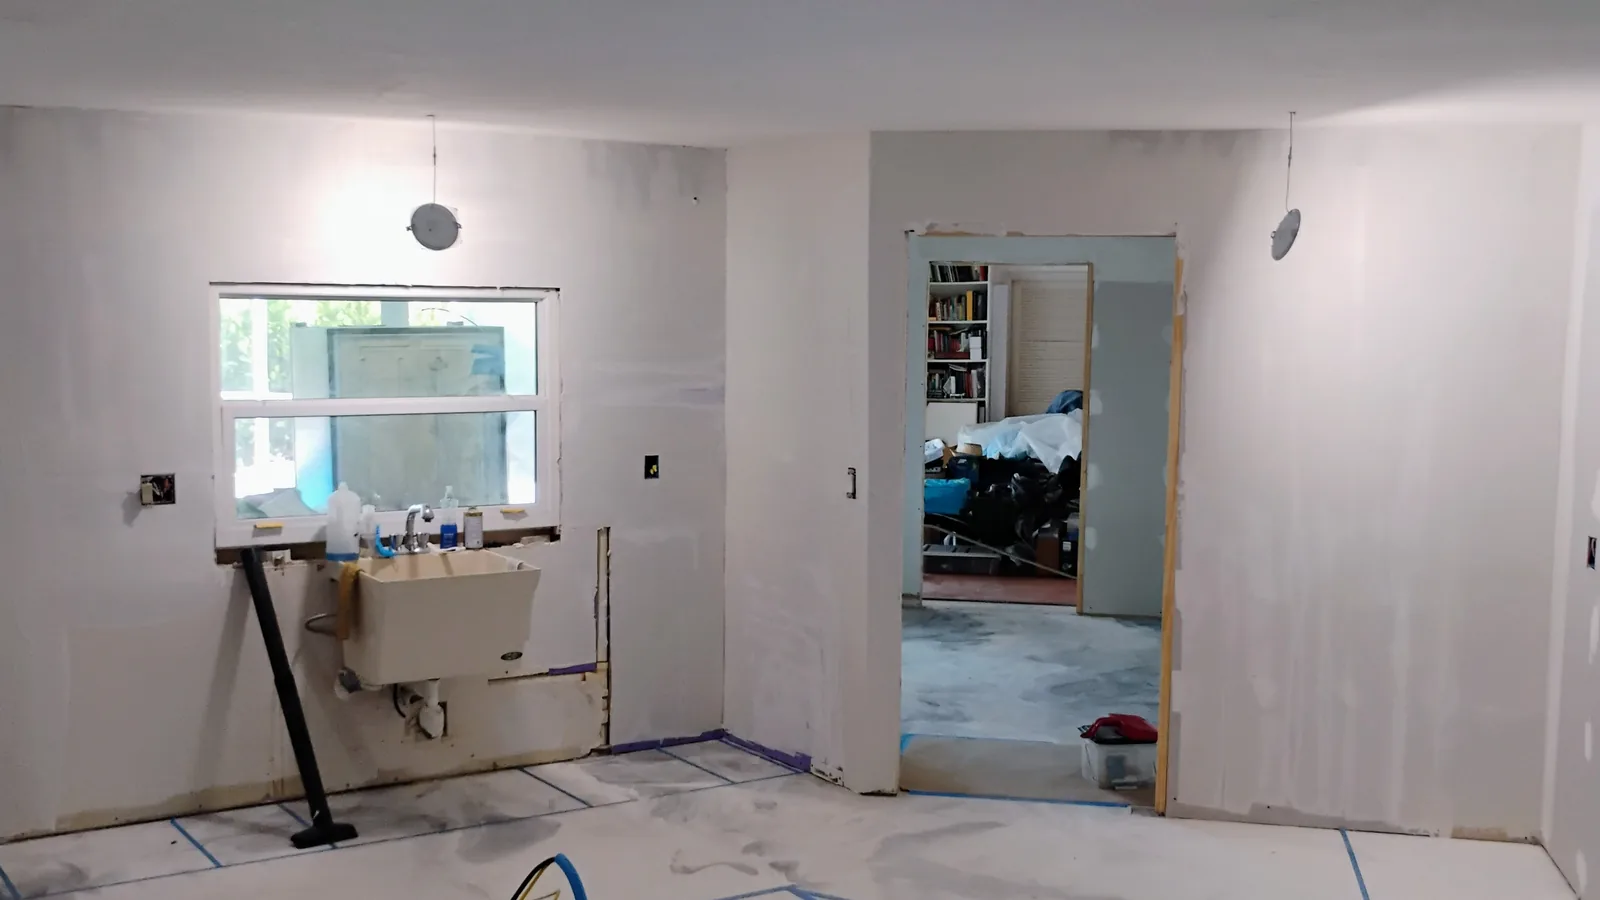
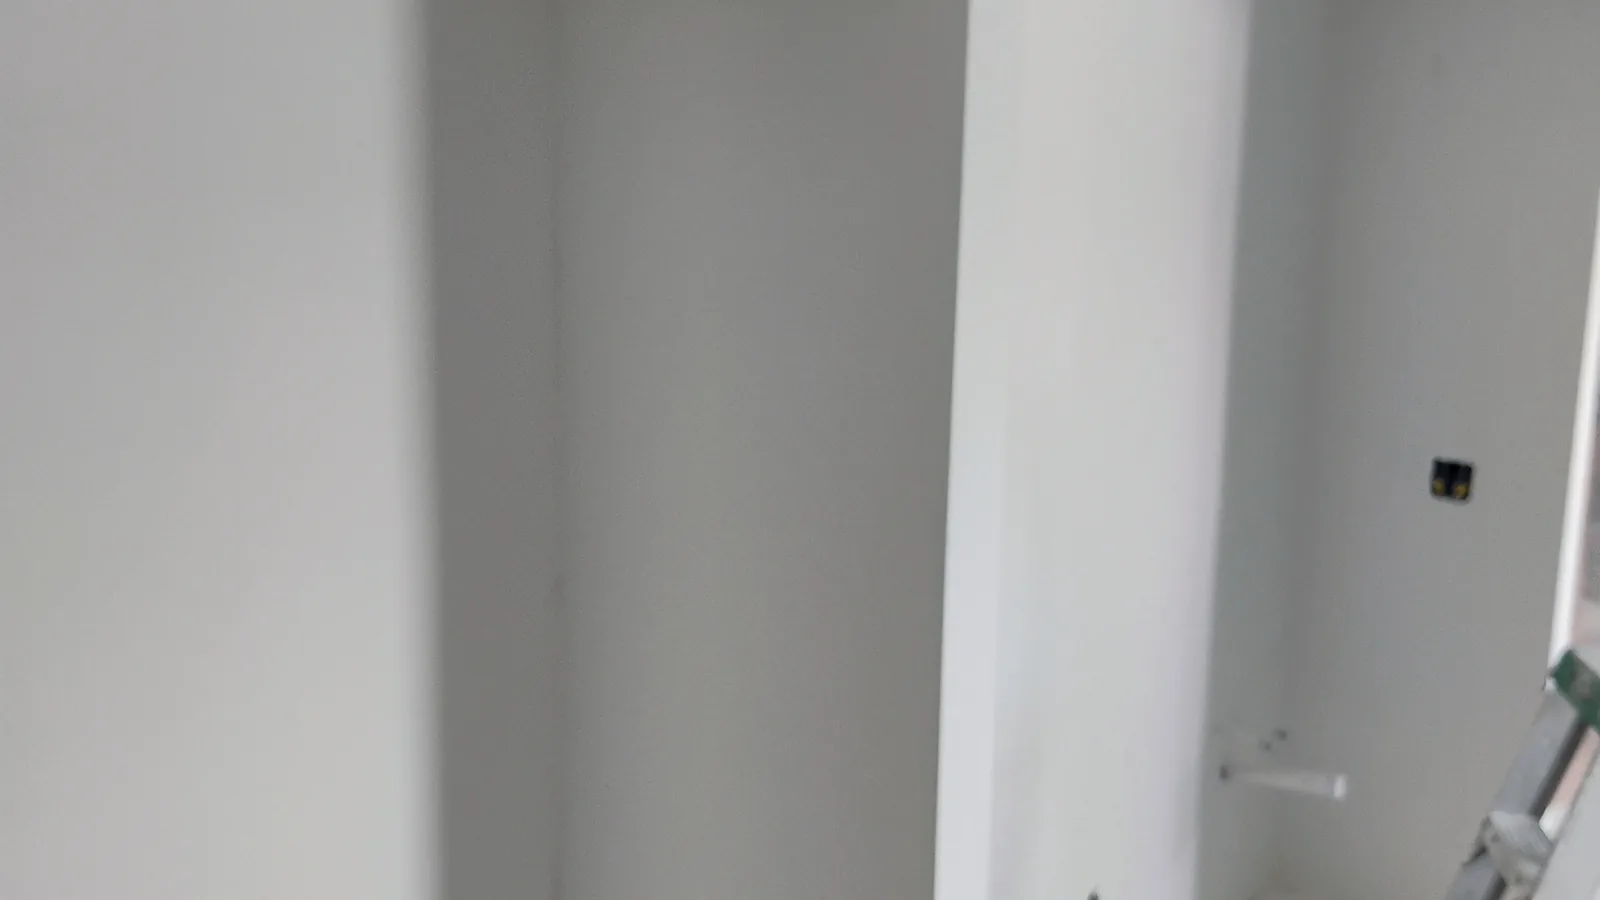
polish(hero): pull copy hard-left, widen photo to 55%, sharper photo (d6 q90)

diff --git a/drywall-repair-painting-sarasota.html b/drywall-repair-painting-sarasota.html
@@ -50,9 +50,9 @@
     .bc a{color:var(--gray-600);text-decoration:none;transition:color .3s}.bc a:hover{color:var(--gold)}
     .bc .sep{color:rgba(198,167,104,0.4)}.bc .cur{color:var(--gold-light)}
     .hero{position:relative;min-height:78vh;display:flex;align-items:center;background:var(--black);overflow:hidden;padding-top:10px}
-    .hero-img{position:absolute;top:0;right:0;width:52%;height:100%;object-fit:cover;opacity:1;z-index:0}
-    .hero::before{content:'';position:absolute;inset:0;z-index:1;background:linear-gradient(90deg,#1C1C1C 0%,#1C1C1C 45%,rgba(28,28,28,0.70) 57%,rgba(28,28,28,0) 82%),radial-gradient(ellipse at 14% 42%,rgba(198,167,104,0.10) 0%,transparent 55%)}
-    .hero-content{position:relative;z-index:2;max-width:560px;padding:80px 0;margin-left:0}.hero-deco{display:none!important}.hero .container{max-width:100%;padding-left:clamp(28px,7vw,150px);padding-right:0}
+    .hero-img{position:absolute;top:0;right:0;width:55%;height:100%;object-fit:cover;opacity:1;z-index:0}
+    .hero::before{content:'';position:absolute;inset:0;z-index:1;background:linear-gradient(90deg,#1C1C1C 0%,#1C1C1C 40%,rgba(28,28,28,0.66) 53%,rgba(28,28,28,0) 76%),radial-gradient(ellipse at 12% 40%,rgba(198,167,104,0.12) 0%,transparent 55%)}
+    .hero-content{position:relative;z-index:2;max-width:560px;padding:80px 0;margin-left:clamp(24px,6vw,120px)}.hero-deco{display:none!important}.hero .container{max-width:none;margin:0;padding:0}
     .hero-badge{display:inline-flex;align-items:center;gap:8px;background:var(--gold-dim);border:1px solid rgba(198,167,104,0.3);border-radius:100px;padding:6px 16px;margin-bottom:24px}
     .hero-badge span{font-size:12px;color:var(--gold);letter-spacing:1.5px;font-weight:500}
     .hero-badge .dot{width:6px;height:6px;border-radius:50%;background:var(--gold);animation:pulse 2s infinite}
@@ -162,7 +162,7 @@
     .reveal.visible{opacity:1;transform:translateY(0)}
     .reveal-delay-1{transition-delay:.1s}.reveal-delay-2{transition-delay:.2s}.reveal-delay-3{transition-delay:.3s}
     @keyframes pulse{0%,100%{opacity:1}50%{opacity:.4}}
-    @media(max-width:900px){.hero{display:block;min-height:auto;padding-top:64px}.hero-img{position:relative;width:100%;height:240px}.hero::before{background:linear-gradient(180deg,rgba(28,28,28,0) 45%,#1C1C1C 96%)}.hero-content{max-width:100%;padding:26px 0 44px}.hero .container{padding-left:24px;padding-right:24px}}
+    @media(max-width:900px){.hero{display:block;min-height:auto;padding-top:64px}.hero-img{position:relative;width:100%;height:240px}.hero::before{background:linear-gradient(180deg,rgba(28,28,28,0) 45%,#1C1C1C 96%)}.hero-content{max-width:100%;padding:26px 0 44px;margin-left:0}.hero .container{padding:0 24px}}
     @media(max-width:768px){.hero-content{padding:26px 0 44px}.hero-deco{display:none}.section{padding:64px 0}.hero h1{font-size:30px}}
     @media(max-width:600px){.form-row-2{grid-template-columns:1fr!important}}
     #sub-btn:hover{background:#D4BC8A!important;transform:translateY(-2px);box-shadow:0 8px 30px rgba(198,167,104,0.3)}
